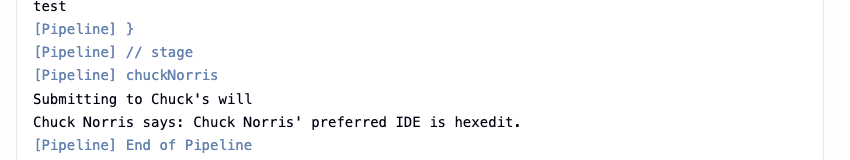
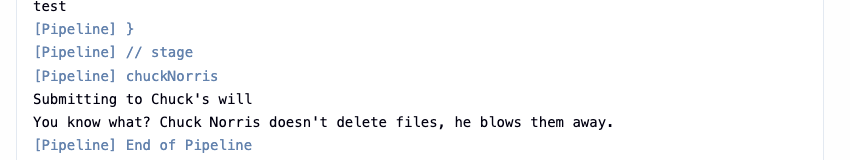
Make the plugin's UI text and log lines translatable (#306)
* Make the plugin's UI text and log lines translatable

The post-build action name, the step name and the two build log lines were hard-coded in English. They now come from Messages.properties, with German and Italian translations to match the languages the facts are available in. The log lines use the controller's locale, like the fact itself.

The fact log line changes from "Chuck Norris says: <fact>" to "You know what? <fact>". Every fact already starts with Chuck Norris, so the old prefix repeated his name ("Chuck Norris says: Chuck Norris can divide by zero.").

Fixes #288

* Update README console screenshot and note translated plugin text

The fact log line now reads "You know what? <fact>" instead of "Chuck Norris says: <fact>", so retake docs/images/console-log.png to match.

Also say in the Localization section that the action and step names and the build log lines are translated too, that log lines use the controller's language, and where translators find the Messages.properties files.

Changed region(s): [[0.0306, 0.7188, 0.52, 0.8125], [0.0306, 0.4375, 0.2753, 0.5312], [0.5506, 0.7188, 0.7341, 0.8125]]

diff --git a/src/test/java/hudson/plugins/chucknorris/BeardDescriptorTest.java b/src/test/java/hudson/plugins/chucknorris/BeardDescriptorTest.java
@@ -4,6 +4,7 @@ import static org.junit.jupiter.api.Assertions.*;
 import static org.mockito.Mockito.mock;
 
 import hudson.model.AbstractProject;
+import java.util.Locale;
 import org.junit.jupiter.api.BeforeEach;
 import org.junit.jupiter.api.Test;
 
@@ -18,7 +19,17 @@ class BeardDescriptorTest {
 
     @Test
     void testGetDisplayName() {
-        assertEquals("Activate Chuck Norris", descriptor.getDisplayName());
+        assertEquals(
+                "Activate Chuck Norris", Messages._BeardDescriptor_DisplayName().toString(Locale.ENGLISH));
+    }
+
+    @Test
+    void testDisplayNameIsTranslated() {
+        assertEquals(
+                "Chuck Norris aktivieren",
+                Messages._BeardDescriptor_DisplayName().toString(Locale.GERMAN));
+        assertEquals(
+                "Attiva Chuck Norris", Messages._BeardDescriptor_DisplayName().toString(Locale.ITALIAN));
     }
 
     @Test

diff --git a/src/test/java/hudson/plugins/chucknorris/CordellWalkerRecorderTest.java b/src/test/java/hudson/plugins/chucknorris/CordellWalkerRecorderTest.java
@@ -71,6 +71,17 @@ class CordellWalkerRecorderTest {
         String fact = recorder.perform(mockBuild, listener);
 
         assertEquals(FactGenerator.getFact(5, Locale.getDefault()), fact);
-        assertTrue(log.toString(StandardCharsets.UTF_8).contains("Chuck Norris says: " + fact));
+        assertTrue(log.toString(StandardCharsets.UTF_8).contains("You know what? " + fact));
+    }
+
+    @Test
+    void testFactLogLineIsTranslated() {
+        assertEquals(
+                "You know what? x", Messages._CordellWalkerRecorder_FactLog("x").toString(Locale.ENGLISH));
+        assertEquals(
+                "Wei\u00dft du was? x",
+                Messages._CordellWalkerRecorder_FactLog("x").toString(Locale.GERMAN));
+        assertEquals(
+                "Sai una cosa? x", Messages._CordellWalkerRecorder_FactLog("x").toString(Locale.ITALIAN));
     }
 }

diff --git a/src/test/java/hudson/plugins/chucknorris/pipeline/ChuckNorrisStepTest.java b/src/test/java/hudson/plugins/chucknorris/pipeline/ChuckNorrisStepTest.java
@@ -152,7 +152,7 @@ class ChuckNorrisStepTest {
         WorkflowRun b1 = j.buildAndAssertSuccess(p);
 
         String fact = FactGenerator.getFact(b1.getAction(RoundhouseAction.class).getFactIndex(), Locale.getDefault());
-        j.assertLogContains("Chuck Norris says: " + fact, b1);
+        j.assertLogContains("You know what? " + fact, b1);
         j.assertLogContains("RETURNED=" + fact, b1);
     }
 
@@ -203,6 +203,6 @@ class ChuckNorrisStepTest {
 
         assertEquals(1, b1.getActions(RoundhouseAction.class).size());
         assertEquals(Style.BAD_ASS, b1.getAction(RoundhouseAction.class).getStyle());
-        j.assertLogContains("Chuck Norris says: ", b1);
+        j.assertLogContains("You know what? ", b1);
     }
 }

diff --git a/src/main/java/hudson/plugins/chucknorris/pipeline/ChuckNorrisStepExecution.java b/src/main/java/hudson/plugins/chucknorris/pipeline/ChuckNorrisStepExecution.java
@@ -24,7 +24,7 @@ public class ChuckNorrisStepExecution extends SynchronousNonBlockingStepExecutio
         TaskListener listener = getContext().get(TaskListener.class);
         Run<?, ?> run = getContext().get(Run.class);
 
-        listener.getLogger().println("Submitting to Chuck's will");
+        listener.getLogger().println(Messages.ChuckNorrisStepExecution_Submitting());
 
         CordellWalkerRecorder recorder = new CordellWalkerRecorder();
         return recorder.perform(run, listener);

diff --git a/src/main/java/hudson/plugins/chucknorris/CordellWalkerRecorder.java b/src/main/java/hudson/plugins/chucknorris/CordellWalkerRecorder.java
@@ -172,7 +172,7 @@ public class CordellWalkerRecorder extends Recorder implements SimpleBuildStep {
         run.addAction(new RoundhouseAction(style, factIndex));
         String fact = FactGenerator.getFact(factIndex, Locale.getDefault());
         if (listener != null) {
-            listener.getLogger().println("Chuck Norris says: " + fact);
+            listener.getLogger().println(Messages.CordellWalkerRecorder_FactLog(fact));
         }
         return fact;
     }

diff --git a/src/main/java/hudson/plugins/chucknorris/pipeline/ChuckNorrisStep.java b/src/main/java/hudson/plugins/chucknorris/pipeline/ChuckNorrisStep.java
@@ -34,7 +34,7 @@ public class ChuckNorrisStep extends Step {
         @NonNull
         @Override
         public String getDisplayName() {
-            return "Submit to Chuck Norris' will";
+            return Messages.ChuckNorrisStep_DisplayName();
         }
 
         @Override

diff --git a/src/main/java/hudson/plugins/chucknorris/BeardDescriptor.java b/src/main/java/hudson/plugins/chucknorris/BeardDescriptor.java
@@ -52,7 +52,7 @@ public class BeardDescriptor extends BuildStepDescriptor<Publisher> {
      */
     @Override
     public final String getDisplayName() {
-        return "Activate Chuck Norris";
+        return Messages.BeardDescriptor_DisplayName();
     }
 
     /**

diff --git a/README.md b/README.md
@@ -134,7 +134,9 @@ Facts are displayed in the user's browser locale when available. Supported langu
 - Italian
 - German
 
-Contributions of new translations are welcome — see the `FactGenerator.properties` files under `src/main/resources`.
+The plugin's own text is translated into the same languages: the post-build action and step names, and the lines it writes to the build log. Build log lines use the Jenkins controller's language, because the log is written before anyone views it.
+
+Contributions of new translations are welcome — see the `FactGenerator.properties` (facts) and `Messages.properties` (plugin text) files under `src/main/resources`.
 
 ## Credits
 
